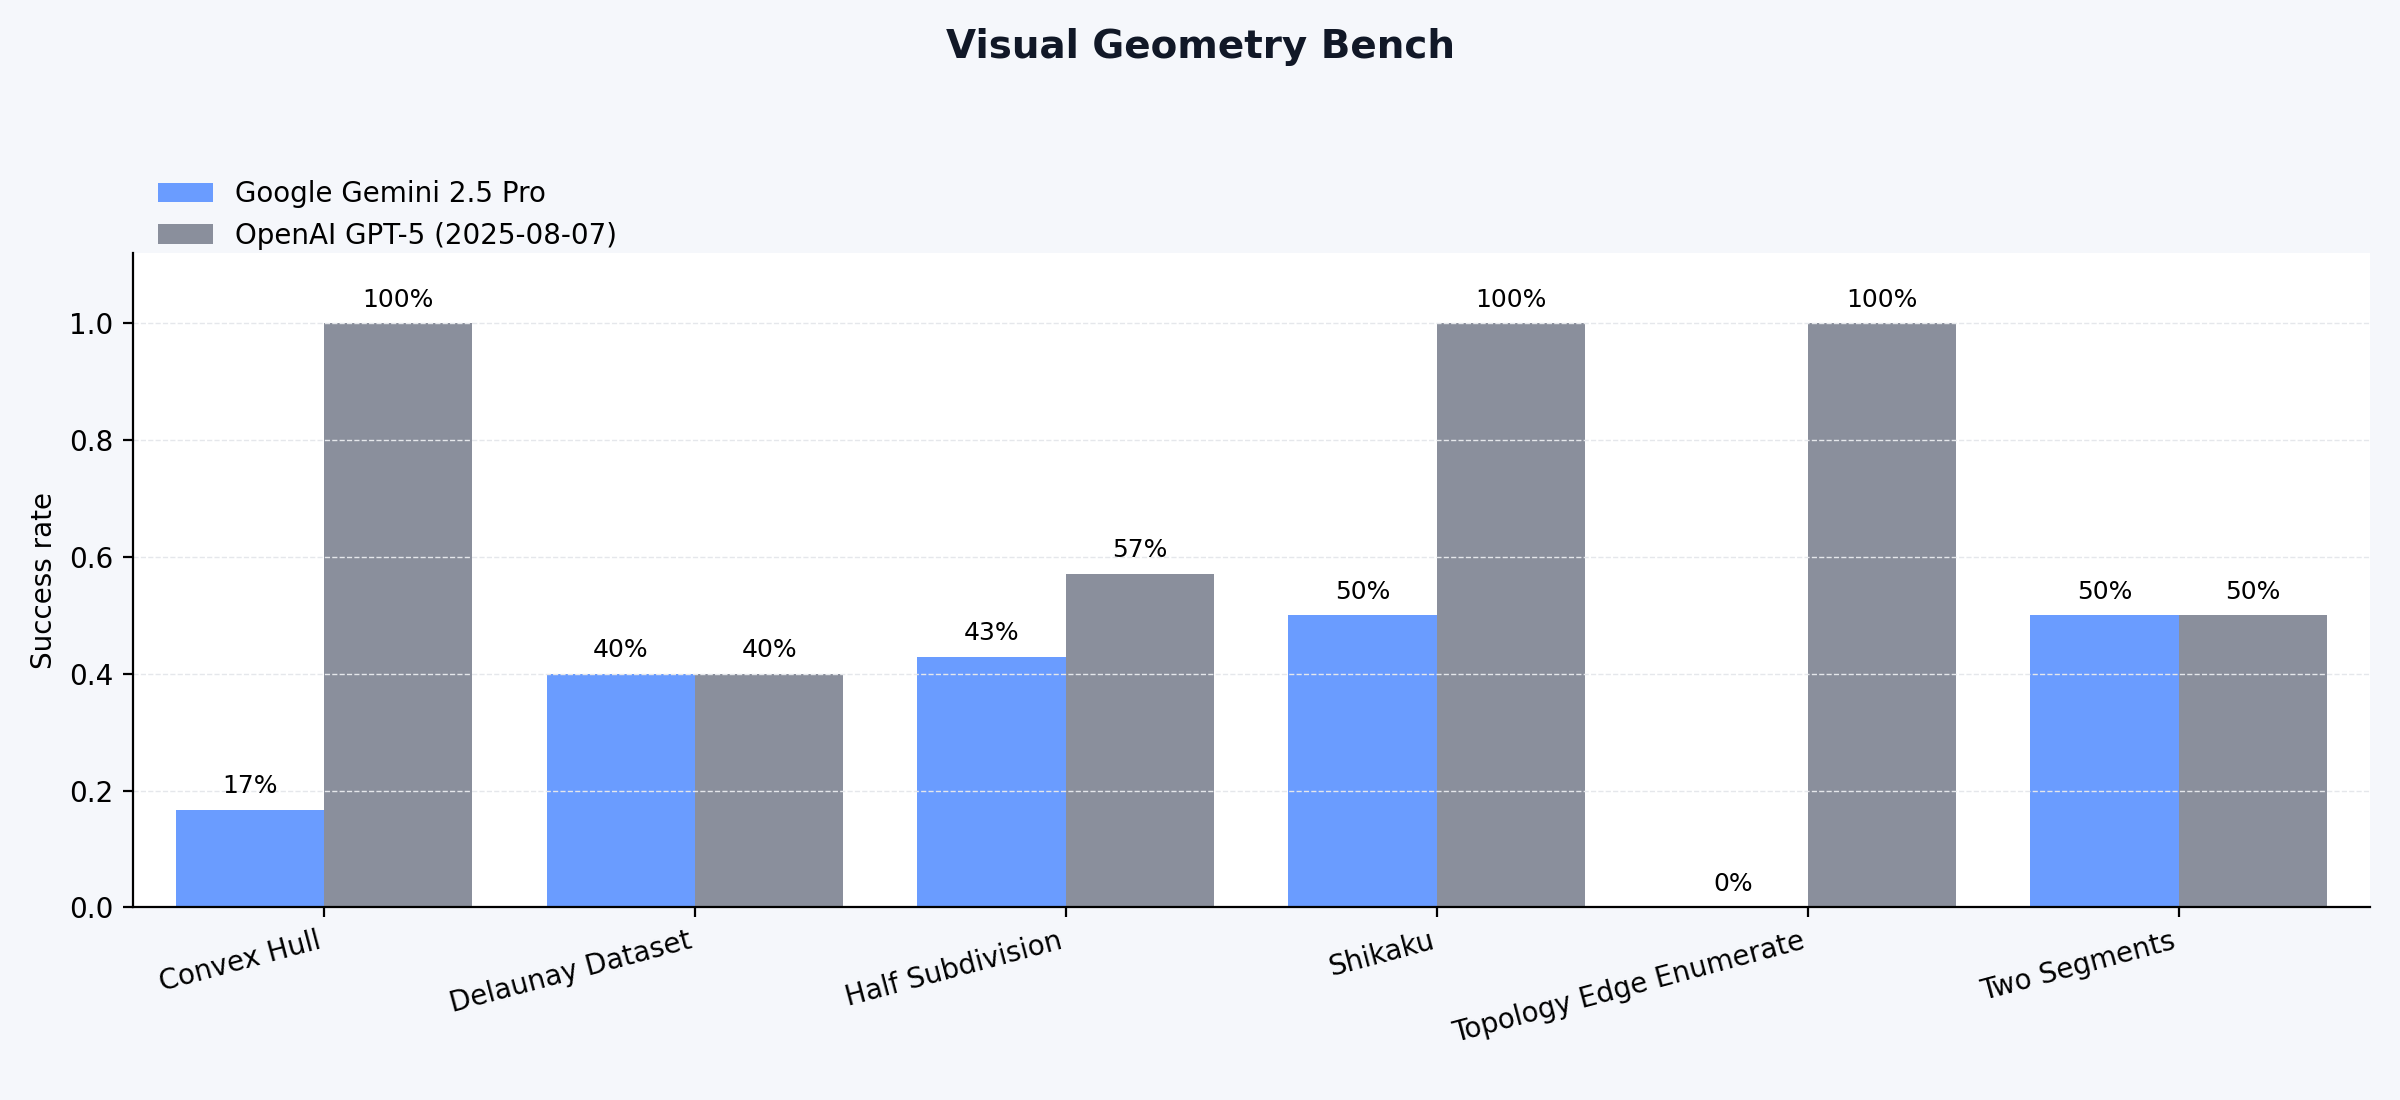
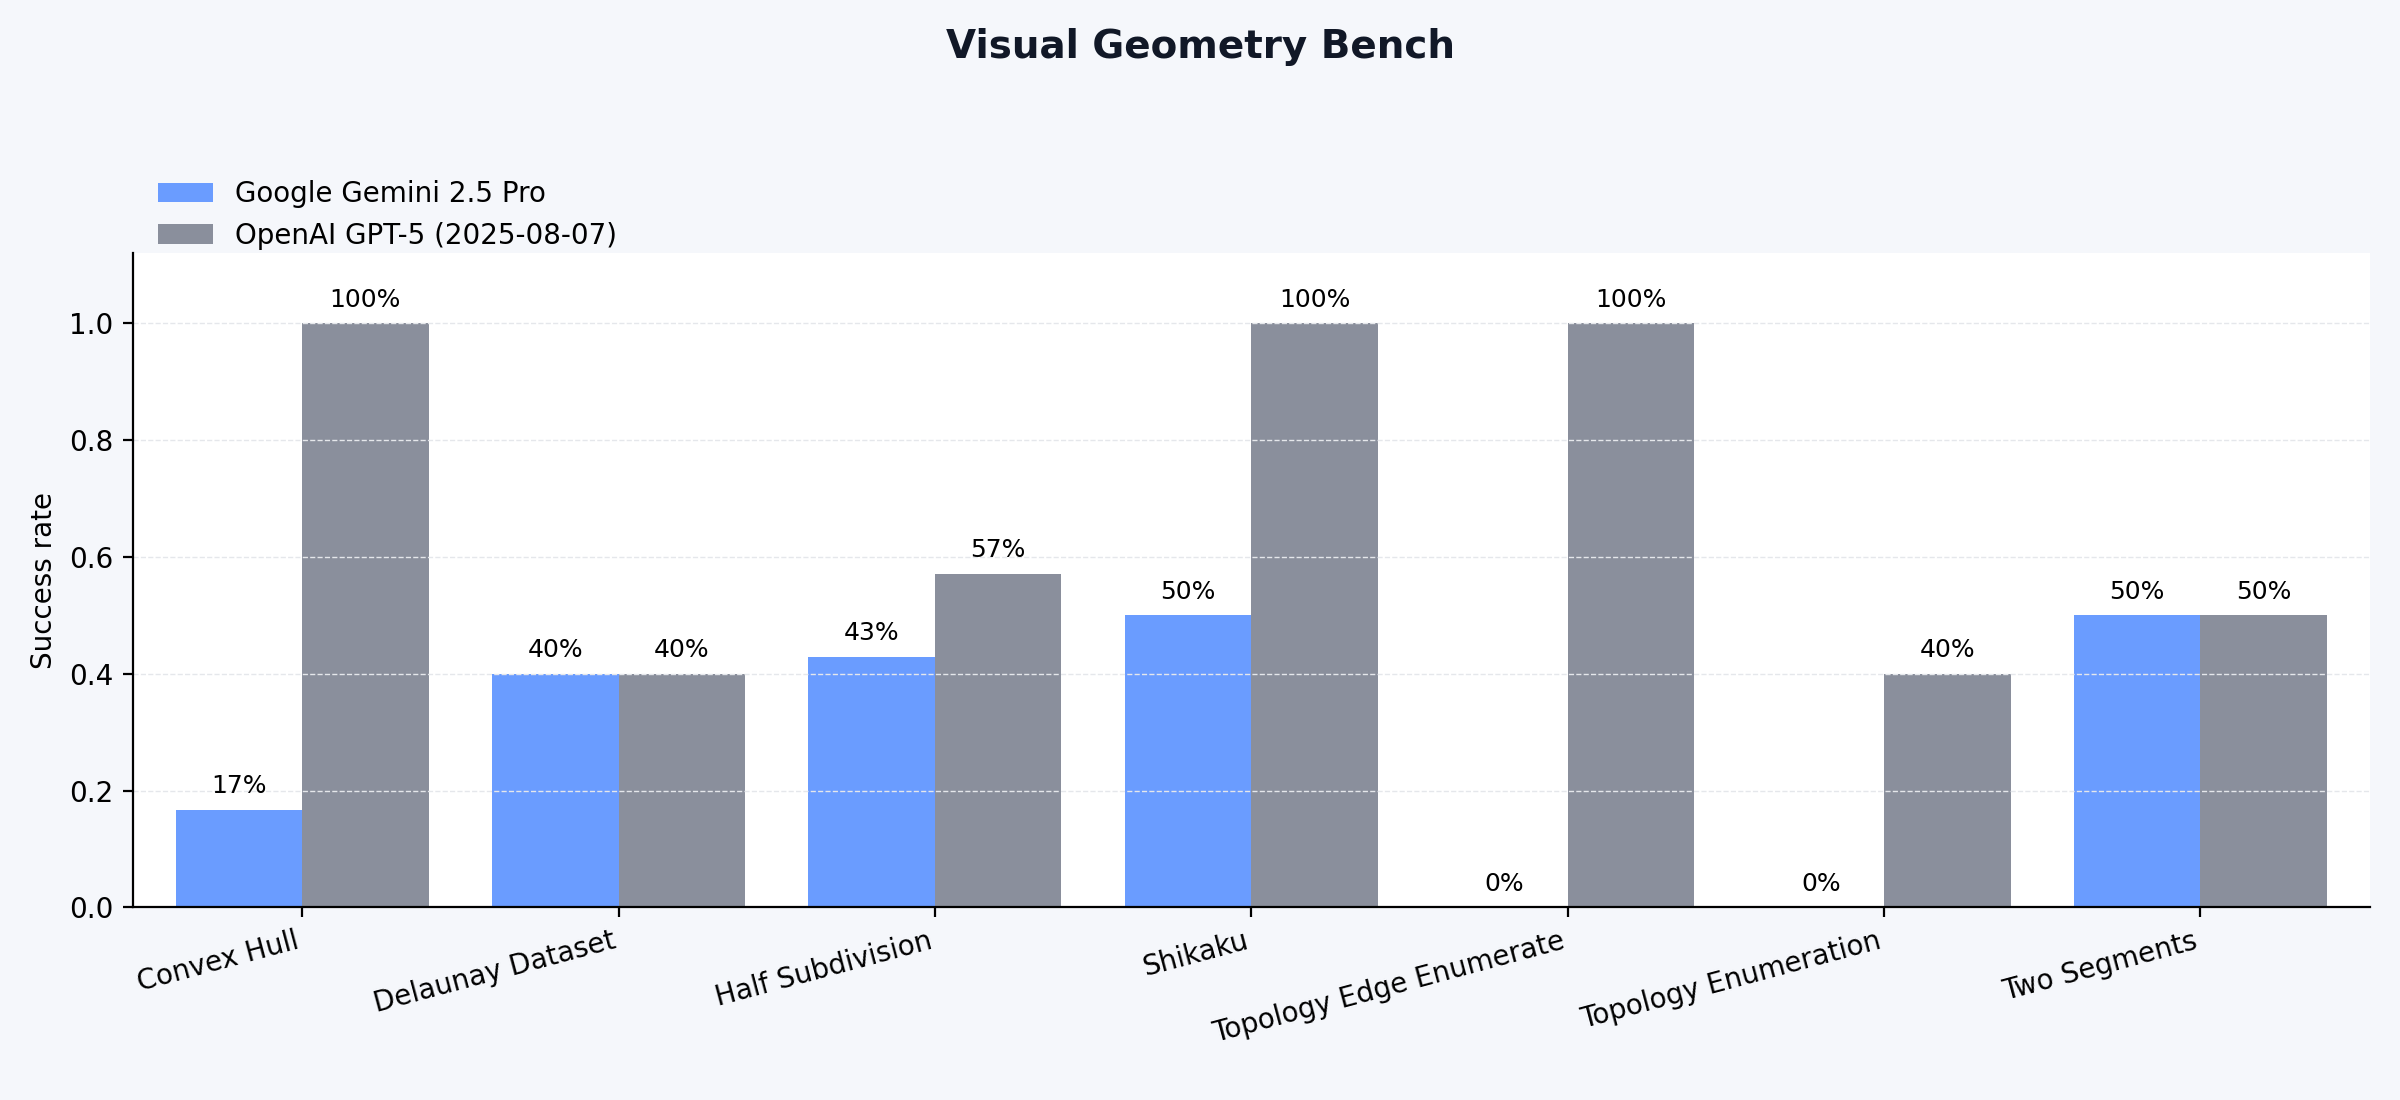
Add topology enumeration runs and refresh charts

diff --git a/blog_prep/visualisations/plot_task_performance.py b/blog_prep/visualisations/plot_task_performance.py
@@ -16,11 +16,12 @@ from matplotlib.offsetbox import AnnotationBbox, OffsetImage
 from matplotlib.patches import Patch
 
 
-BASE_DIR = pathlib.Path(__file__).parent
-OUTPUT_PATH = BASE_DIR / "task_performance.png"
-SUBPLOT_PATH = BASE_DIR / "task_performance_subplots.png"
-OVERALL_PATH = BASE_DIR / "task_performance_overall.png"
-ASSET_DIR = BASE_DIR / "assets"
+PLOT_DIR = pathlib.Path(__file__).resolve().parent
+BASE_DIR = PLOT_DIR.parent
+OUTPUT_PATH = PLOT_DIR / "task_performance.png"
+SUBPLOT_PATH = PLOT_DIR / "task_performance_subplots.png"
+OVERALL_PATH = PLOT_DIR / "task_performance_overall.png"
+ASSET_DIR = PLOT_DIR / "assets"
 
 MODEL_BRANDING = {
     "gpt-5-2025-08-07": {
